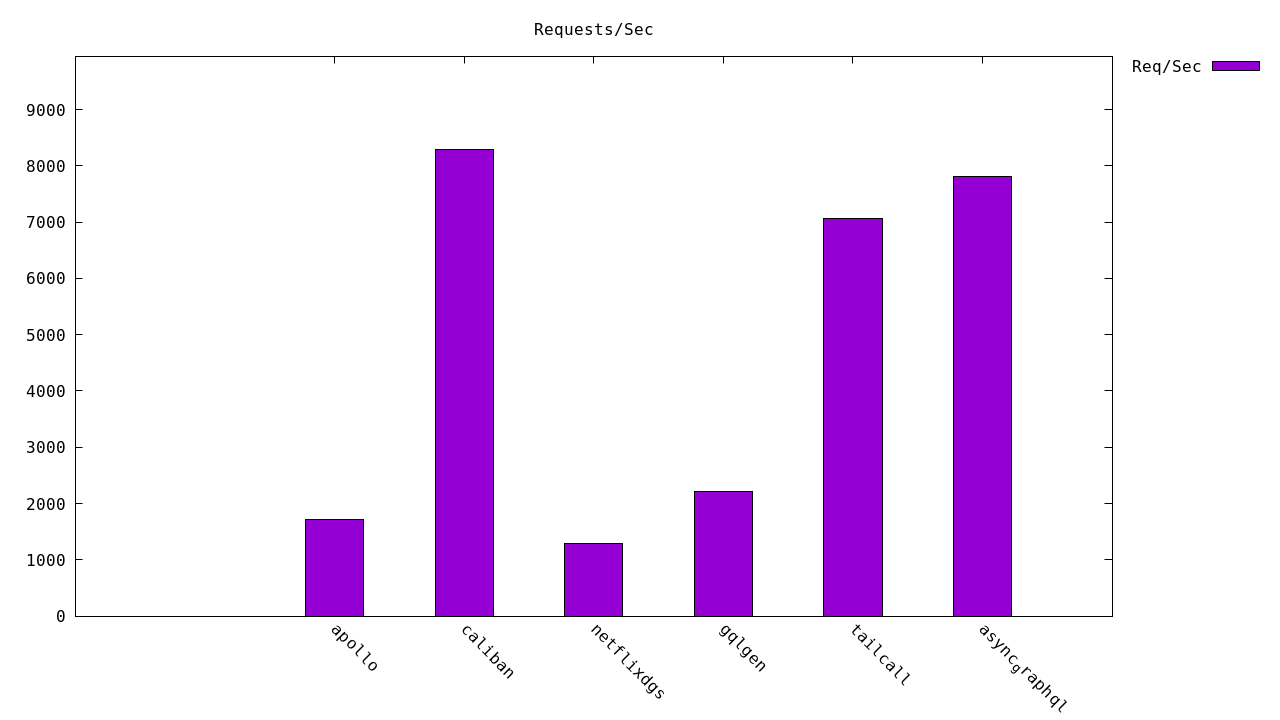
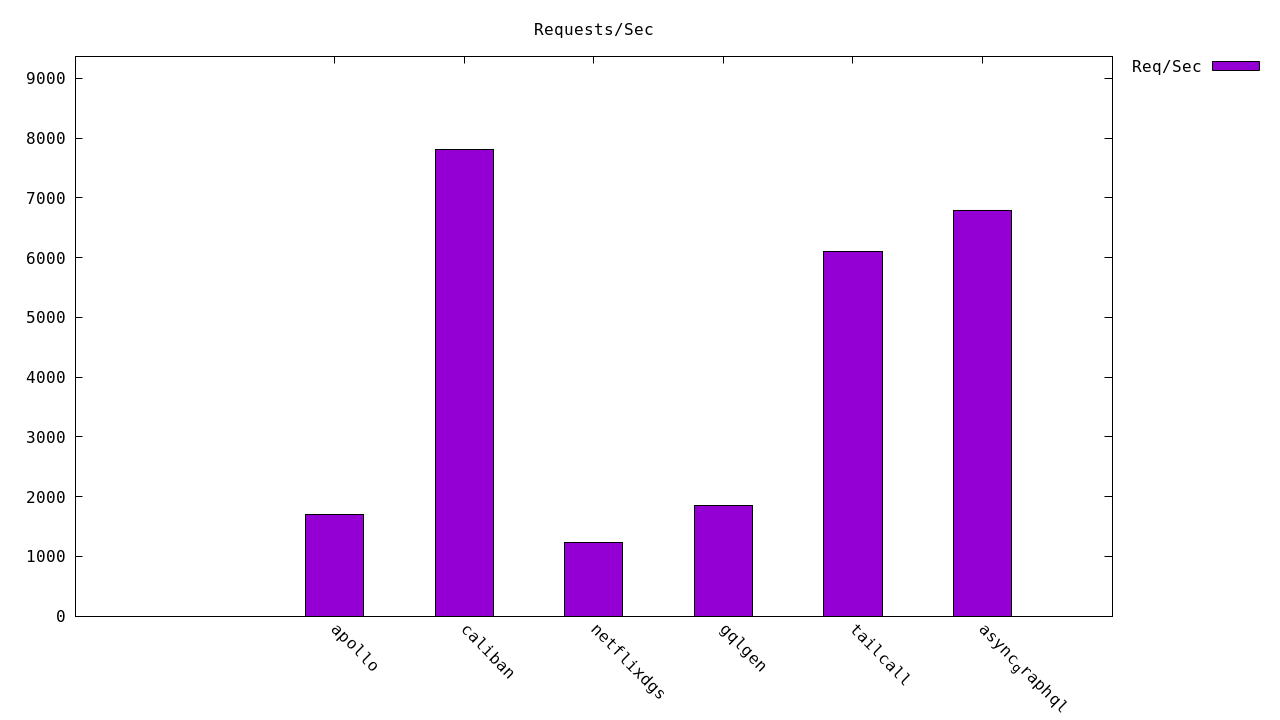
off cpu

diff --git a/README.md b/README.md
@@ -48,12 +48,12 @@ Get started with the benchmarks:
 
 | Server | Requests/sec | Latency (ms) |
 |--------:|--------------:|--------------:|
-| [Caliban] | `8,287.76` | `12.06` |
-| [async-graphql] | `7,806.39` | `12.80` |
-| [Tailcall] | `7,064.79` | `14.13` |
-| [Gqlgen] | `2,207.04` | `46.85` |
-| [Apollo GraphQL] | `1,707.08` | `58.37` |
-| [Netflix DGS] | `1,290.47` | `82.16` |
+| [Caliban] | `7,804.29` | `13.02` |
+| [async-graphql] | `6,795.58` | `14.84` |
+| [Tailcall] | `6,106.76` | `16.40` |
+| [Gqlgen] | `1,843.52` | `58.80` |
+| [Apollo GraphQL] | `1,699.82` | `58.71` |
+| [Netflix DGS] | `1,229.56` | `86.84` |
 
 <!-- PERFORMANCE_RESULTS_END -->
 

diff --git a/results.md b/results.md
@@ -2,11 +2,11 @@
 
 | Server | Requests/sec | Latency (ms) |
 |--------:|--------------:|--------------:|
-| [Caliban] | `8,287.76` | `12.06` |
-| [async-graphql] | `7,806.39` | `12.80` |
-| [Tailcall] | `7,064.79` | `14.13` |
-| [Gqlgen] | `2,207.04` | `46.85` |
-| [Apollo GraphQL] | `1,707.08` | `58.37` |
-| [Netflix DGS] | `1,290.47` | `82.16` |
+| [Caliban] | `7,804.29` | `13.02` |
+| [async-graphql] | `6,795.58` | `14.84` |
+| [Tailcall] | `6,106.76` | `16.40` |
+| [Gqlgen] | `1,843.52` | `58.80` |
+| [Apollo GraphQL] | `1,699.82` | `58.71` |
+| [Netflix DGS] | `1,229.56` | `86.84` |
 
 <!-- PERFORMANCE_RESULTS_END -->
